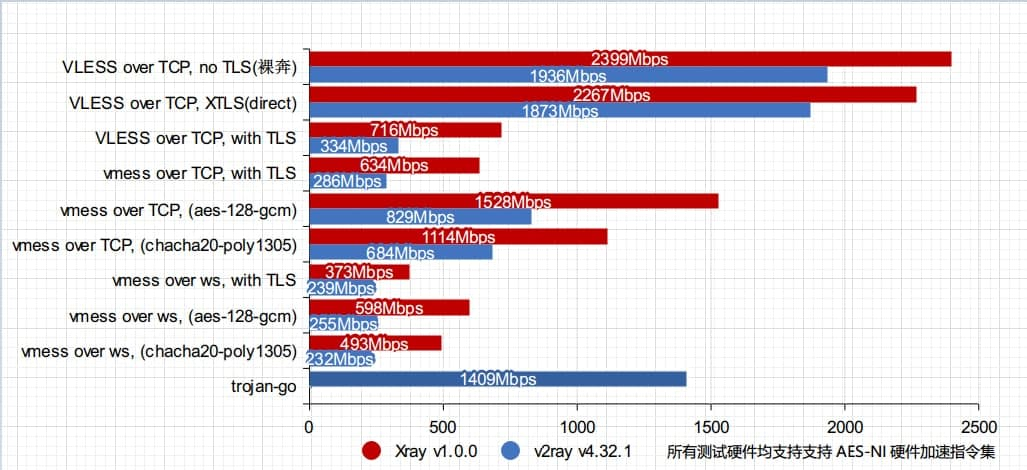
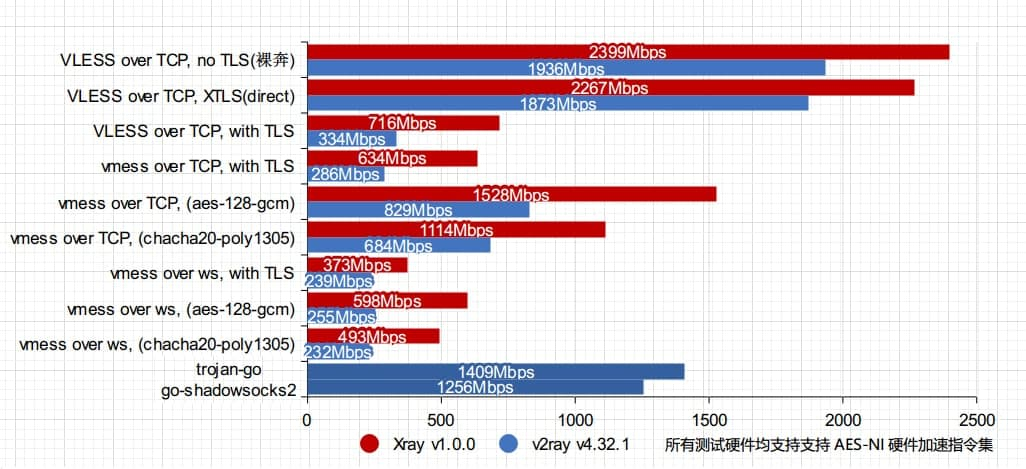
update

diff --git a/performance_test/Xray/speed_test_2020119.md b/performance_test/Xray/speed_test_2020119.md
@@ -40,6 +40,10 @@ vmess over ws, with TLS	| 239  |373|前置nginx http分流
 vmess over ws, (aes-128-gcm)	| 255  |598|前置nginx http分流
 vmess over ws, (chacha20-poly1305)	|  232  |493|前置nginx http分流
 trojan-go	|  1409   |-|
+trojan-gfw	|  505  |
+go-shadowsocks2+outline(aes-128-gcm)	|  1256   |-|
+shadowsocks-rust(aes-128-cfb)	|  394   |-|
+shadowsocks-libev(aes-128-cfb)	|  405   |-|
 
 ![avatar](https://raw.githubusercontent.com/badO1a5A90/v2ray-doc/main/performance_test/Xray/img/xray20201119.jpg)
 

diff --git a/v2ray_speed_test_v4.32.1.md b/v2ray_speed_test_v4.32.1.md
@@ -75,6 +75,9 @@ vmess over ws, (chacha20-poly1305)	|  232 Mbits/sec |前置nginx http分流
 **v2ray**'trojan over TCP, with XTLS(direct)	|  1974 Mbits/sec |对照VLESS over TCP, XTLS(direct)
 trojan-go	|  1513 Mbits/sec |
 trojan-gfw	|  505 Mbits/sec |
+go-shadowsocks2+outline(aes-128-gcm)	|  1256 Mbits/sec  |-|
+shadowsocks-rust(aes-128-cfb)	|  394 Mbits/sec   |-|
+shadowsocks-libev(aes-128-cfb)	|  405 Mbits/sec  |-|
 
   ### 总结
   ---
